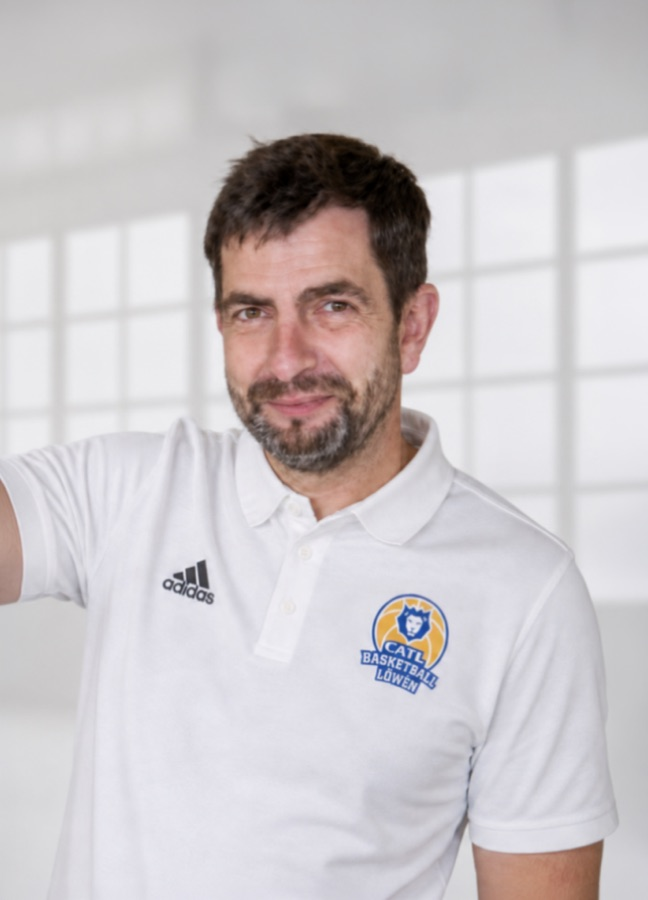
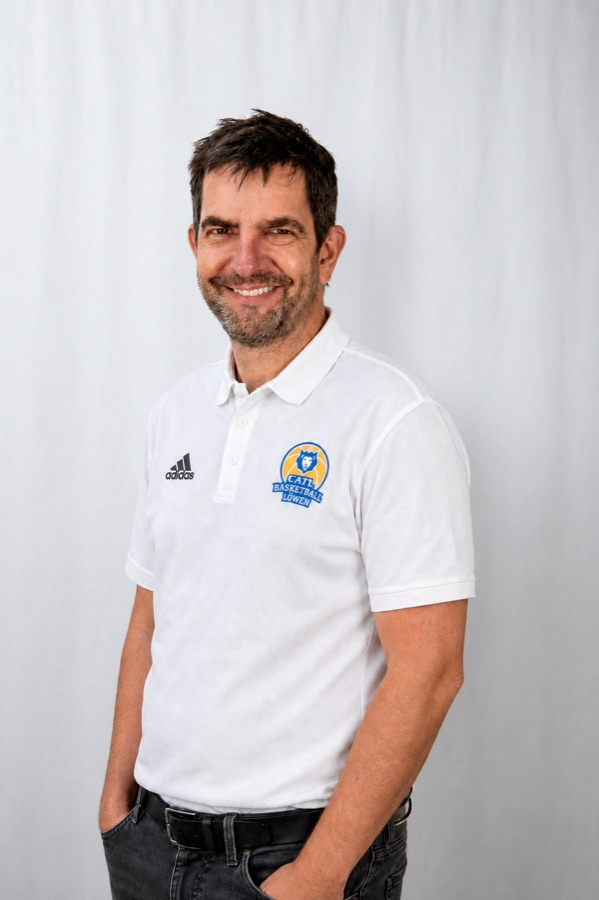
Marko Fliege: neues Foto site-weit, Förderverein-Rolle entfernt
Statisches Steckbrief-Foto (Organisation) und Freundeskreis-Avatar auf
das neue Foto aktualisiert, Freundeskreis-Ausschnitt passend zum
bestehenden Kreis-Avatar zugeschnitten. Marko ist nicht mehr im
Förderverein-Vorstand (data-org + Panini-Card-Meta angepasst auf
'Geschäftsführer & Kaufmännischer Leiter').

diff --git a/verein/organisation.html b/verein/organisation.html
@@ -203,7 +203,7 @@
             <div class="panini-card-info"><div class="panini-card-name">Marc Reimschüssel</div><div class="panini-card-meta">Vorstand</div></div>
           </div>
         </div>
-        <div class="panini-wrap" data-org="foerderverein profiteam" data-step="0">
+        <div class="panini-wrap" data-org="profiteam" data-step="0">
           <div class="panini-card">
             <div class="panini-card-photo">
               <div class="panini-photo-frame panini-photo-frame-0"><img src="/assets/img/verantwortliche/mf-1.jpg" alt="Marko Fliege" loading="lazy"></div>
@@ -216,7 +216,7 @@
                 </ul>
               </div>
             </div>
-            <div class="panini-card-info"><div class="panini-card-name">Marko Fliege</div><div class="panini-card-meta">Geschäftsführer</div></div>
+            <div class="panini-card-info"><div class="panini-card-name">Marko Fliege</div><div class="panini-card-meta">Geschäftsführer & Kaufmännischer Leiter</div></div>
           </div>
         </div>
         <div class="panini-wrap" data-org="profiteam" data-step="0">
